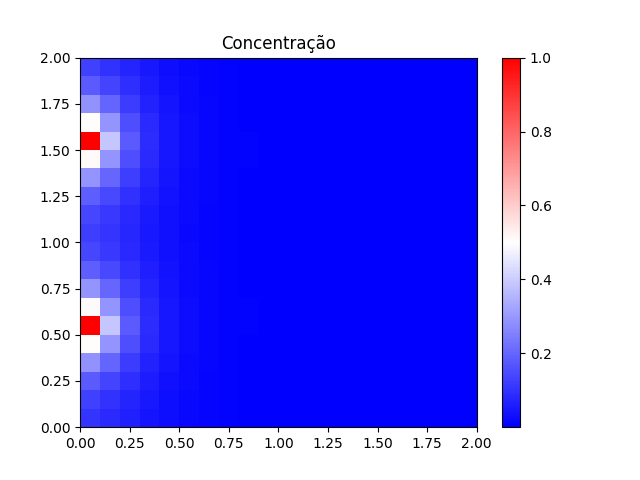
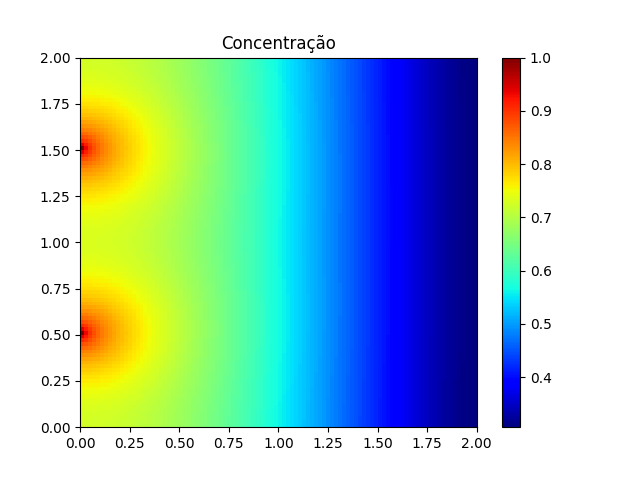
Correçao

diff --git a/Trabalho 4/difus-advec.py b/Trabalho 4/difus-advec.py
@@ -4,7 +4,7 @@ import math
 
 
 L = 2.0                  # dimensao do domínio (Lx = Ly = L)
-N  = 41                  # número de nós da malha
+N  = 101                  # número de nós da malha
 ti = 0.0                 # tempo inicial da simulação
 tf = 1.0                 # tempo final da simulação
 dx = L/(N-1)             # comprimento do intervalo
@@ -47,7 +47,7 @@ def plot_2DGrid(Matrix):
 
     fig, ax = plt.subplots()
 
-    c = ax.pcolormesh(x, y, z, cmap='bwr', vmin=z_min, vmax=z_max)
+    c = ax.pcolormesh(x, y, z, cmap='jet', vmin=z_min, vmax=z_max)
     ax.set_title('Concentração')
     # set the limits of the plot to the limits of the data
     ax.axis([x.min(), x.max(), y.min(), y.max()])
@@ -100,8 +100,8 @@ def solve_explicitly(C):
                 else:
                     Coef_1 = a*(C[i_prev, j] - 2*C[i, j] + C[i_next, j])
                     Coef_2 = b*(C[i, j_prev] - 2*C[i, j] + C[i, j_next])
-                    Coef_3 = -c*(C[i_prev, j] - C[i_next, j])
-                    Coef_4 = d*C[i, j] + C[i, j]
+                    Coef_3 = -c*(C[i_next, j] - C[i_prev, j])
+                    Coef_4 = -d*C[i, j] + C[i, j]
                     C[i, j] = Coef_1 + Coef_2 + Coef_3 + Coef_4
         step = step + 1
 
